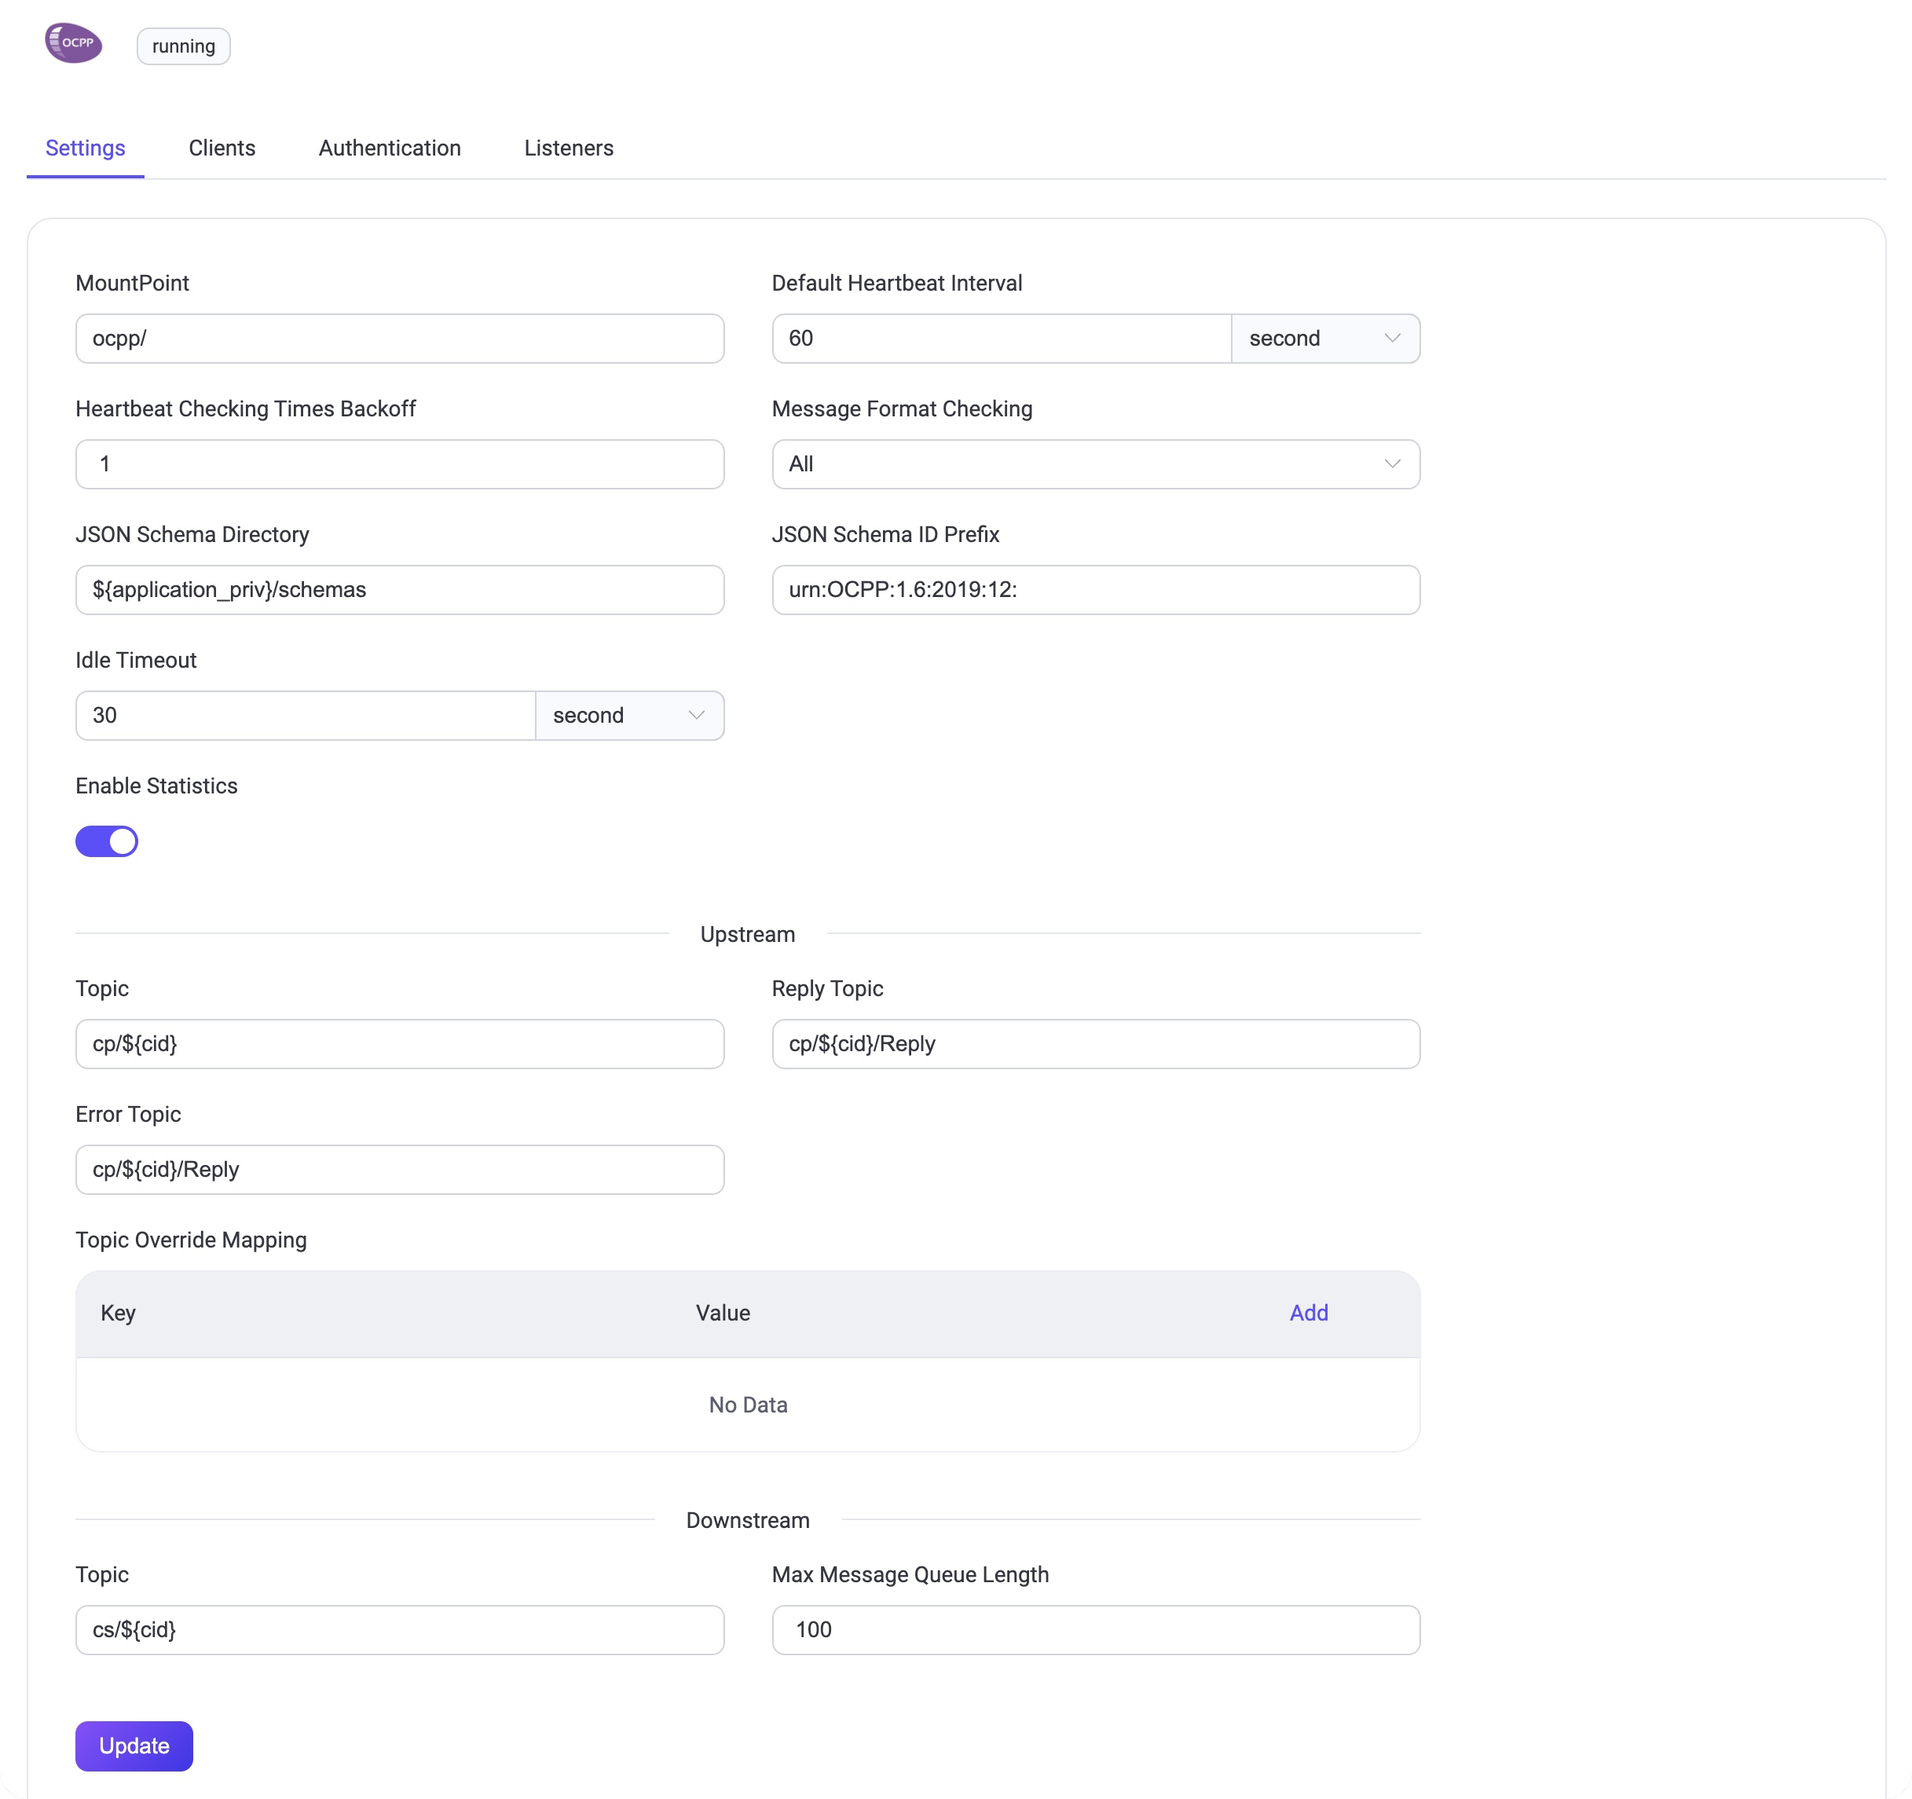
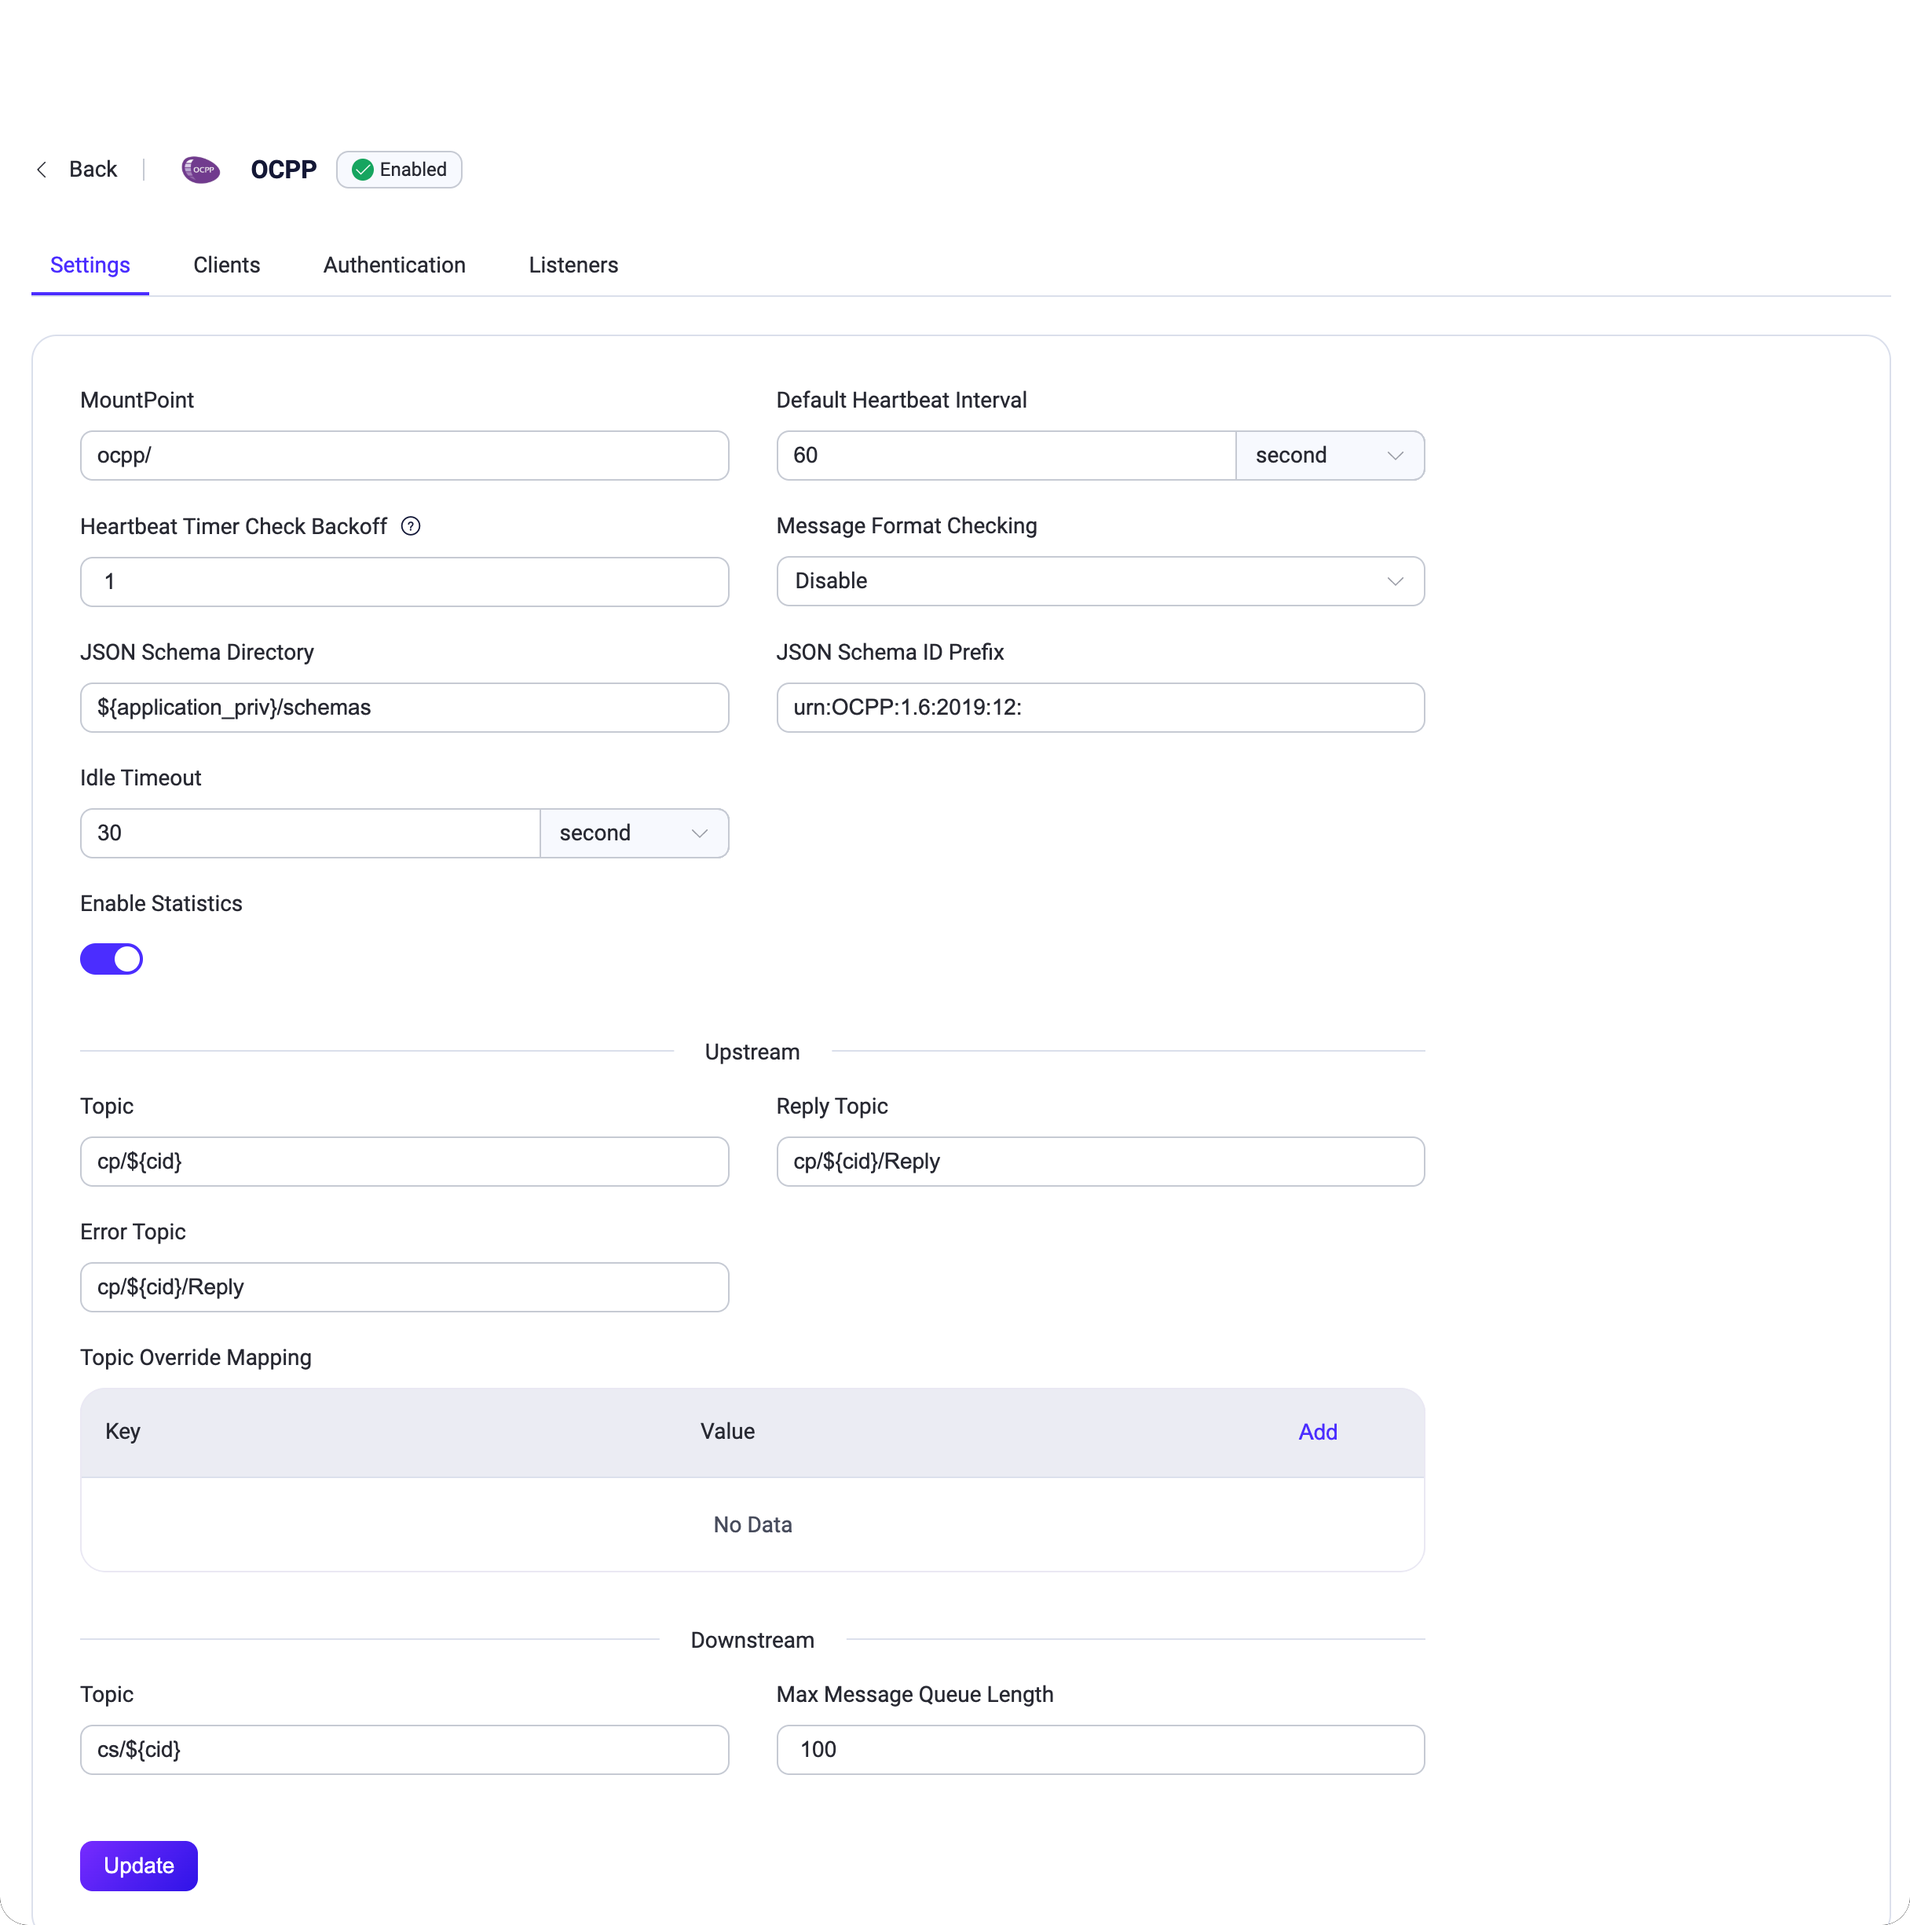
fix(gateway): correct OCPP message format checking default docs

diff --git a/ja_JP/gateway/ocpp.md b/ja_JP/gateway/ocpp.md
@@ -145,10 +145,10 @@ GatewaysページのOCPPゲートウェイの**Actions**列にある**Settings**
 - **Heartbeat Checking Times Backoff**：ハートビートチェックのバックオフ回数、初期値：`1`
 - **Message Format Checking**：メッセージフォーマットの妥当性チェックを有効にするかどうか。EMQXはアップロード／ダウンロードストリームのメッセージをjson-schemaで定義されたフォーマットと照合し、チェックに失敗した場合は対応する応答メッセージを返します。設定可能な値は以下の通りです。
 
-    - `all`：すべてのメッセージをチェック
+    - `disable`：チェックを行わない。デフォルト値。
     - `upstream_only`：アップロードストリームのメッセージのみチェック
     - `dnstream_only`：ダウンロードストリームのメッセージのみチェック
-    - `disable`：チェックを行わない
+    - `all`：すべてのメッセージをチェック
 - **JSON Schema Directory**：OCPPメッセージ定義のJSONスキーマディレクトリ、初期値：`${application}/priv/schemas`
 - **JSON Schema ID Prefix**：OCPPメッセージスキーマのIDプレフィックス、初期値：`urn:OCPP:1.6:2019:12:`
 - **Idle Timeout**：非アクティブ状態が続いた場合に接続を切断するまでの最大待機時間（秒）

diff --git a/en_US/gateway/ocpp.md b/en_US/gateway/ocpp.md
@@ -146,10 +146,10 @@ On the Gateways page, clicking the **Settings** button in the **Actions** column
 - **Heartbeat Checking Times Backoff**: The backoff for heartbeat checking times, default: `1`.
 - **Message Format Checking**: Whether to enable message format legality checking. EMQX checks the message format of the upload stream and download stream against the format defined in json-schema. When the check fails, EMQX will reply with a corresponding answer message. The checking strategy can be one of the following values:
 
-    - `all`: Check all messages.
+    - `disable`: Do not check any messages. Default value.
     - `upstream_only`: Check upload stream messages only.
     - `dnstream_only`: Check download stream messages only.
-    - `disable`: Do not check any messages.
+    - `all`: Check all messages.
 - **JSON Schema Directory**: JSON Schema directory for OCPP message definitions, default: `${application}/priv/schemas`.
 - **JSON Schema ID Prefix**: The ID prefix for the OCPP message schemas, default: `urn:OCPP:1.6:2019:12:`.
 - **Idle Timeout**: Set the maximum amount of time in seconds that the gateway will wait for an OCPP frame before closing the connection due to inactivity.

diff --git a/zh_CN/gateway/ocpp.md b/zh_CN/gateway/ocpp.md
@@ -145,10 +145,10 @@ curl -X 'PUT' 'http://127.0.0.1:18083/api/v5/gateways/ocpp' \
 - **心跳检查退避倍数**：网关以多少倍的心跳时间来启动心跳定时器, 默认：`1` 倍。
 
 - **消息格式检查**：是否启用消息格式合法性检查。OCPP 网关会将上行数据流和下行数据流的消息格式与 JSON Schema 中定义的格式进行检查。当检查失败时，OCPP 网关会回复相应的错误消息。检查策略可以是以下值之一：
-    - `all`：检查上下行所有消息。 
+    - `disable`：不检查任何消息。默认值。
     - `upstream_only`：仅检查上行消息。
     - `dnstream_only`：仅检查下行消息。
-    - `disable`：不检查任何消息。
+    - `all`：检查上下行所有消息。
 
 - **JSON Schema 文件目录**：配置存放 OCPP 消息的 JSON Schema 文件目录，默认值：`${application}/priv/schemas`。
 
